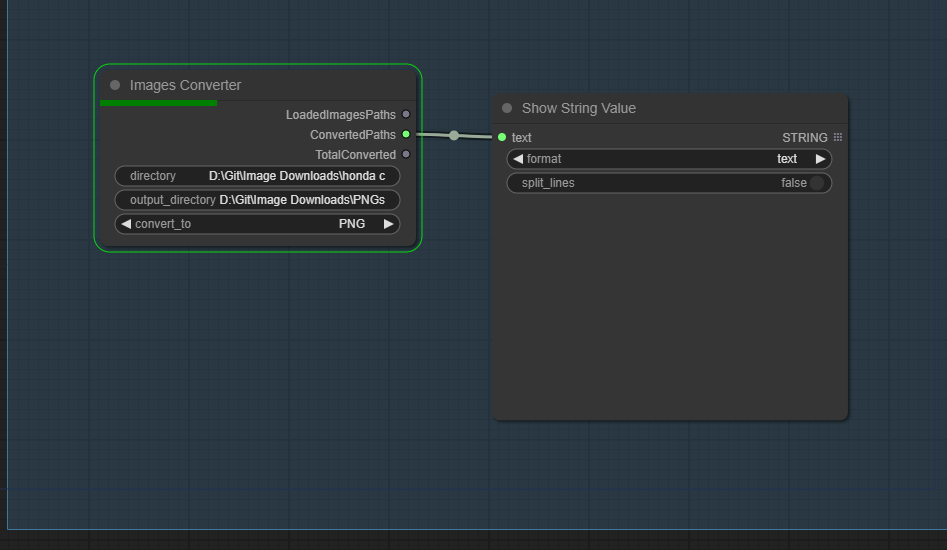
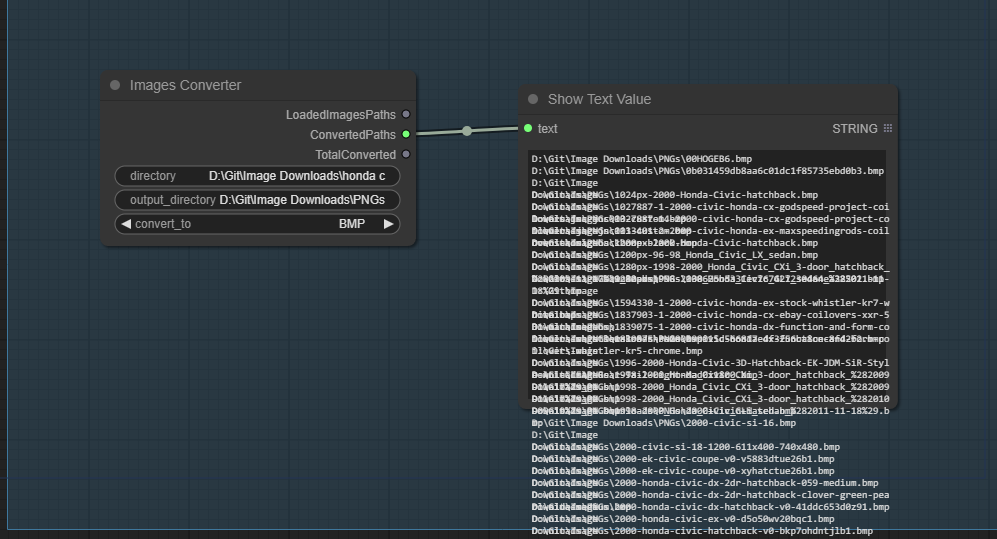
Working Show Text node

Changed region(s): [[0.0, 0.1781, 1.0, 1.0], [0.1225, 0.0891, 0.4287, 0.1187], [0.0919, 0.1484, 0.245, 0.2078]]

diff --git a/web/js/showText.js b/web/js/showText.js
@@ -1,0 +1,58 @@
+import { app } from "../../../scripts/app.js";
+import { ComfyWidgets } from "../../../scripts/widgets.js";
+
+// Displays input text on a node
+app.registerExtension({
+	name: "D00MYs.Show_Text",
+	async beforeRegisterNodeDef(nodeType, nodeData, app) {
+		if (nodeData.name === "Show_Text|D00MYs") {
+			// Taken from : https://github.com/pythongosssss/ComfyUI-Custom-Scripts/blob/main/web/js/showText.js
+			function populate(text) {
+				if (this.widgets) {
+					for (let i = 2; i < this.widgets.length; i++) {
+						this.widgets[i].onRemove?.();
+					}
+					this.widgets.length = 2;
+				}
+
+				const v = [...text];
+				if (!v[0]) {
+					v.shift();
+				}
+				for (const list of v) {
+					const w = ComfyWidgets["STRING"](this, "text2", ["STRING", { multiline: true }], app).widget;
+					w.inputEl.readOnly = true;
+					w.inputEl.style.opacity = 0.6;
+					w.value = list;
+				}
+
+				requestAnimationFrame(() => {
+					const sz = this.computeSize();
+					if (sz[0] < this.size[0]) {
+						sz[0] = this.size[0];
+					}
+					if (sz[1] < this.size[1]) {
+						sz[1] = this.size[1];
+					}
+					this.onResize?.(sz);
+					app.graph.setDirtyCanvas(true, false);
+				});
+			}
+
+			// When the node is executed we will be sent the input text, display this in the widget
+			const onExecuted = nodeType.prototype.onExecuted;
+			nodeType.prototype.onExecuted = function (message) {
+				onExecuted?.apply(this, arguments);
+				populate.call(this, message.text);
+			};
+
+			const onConfigure = nodeType.prototype.onConfigure;
+			nodeType.prototype.onConfigure = function () {
+				onConfigure?.apply(this, arguments);
+				if (this.widgets_values?.length) {
+					populate.call(this, this.widgets_values.slice(+this.widgets_values.length > 2));
+				}
+			};
+		}
+	},
+});

diff --git a/__init__.py b/__init__.py
@@ -1,6 +1,55 @@
+import os
+import shutil
+import inspect
+from server import PromptServer
+
 from .nodes import NODE_CLASS_MAPPINGS, NODE_DISPLAY_NAME_MAPPINGS
 from .logger import logger
 
 logger.info(f"Loading D00MYs nodes: {NODE_CLASS_MAPPINGS}")
 
-__all__ = ["NODE_CLASS_MAPPINGS", "NODE_DISPLAY_NAME_MAPPINGS"]
+#################################################################### Installing JS
+# https://github.com/pythongosssss/ComfyUI-Custom-Scripts/blob/main/pysssss.py
+
+def get_ext_dir(subpath=None, mkdir=False):
+    dir = os.path.dirname(__file__)
+    if subpath is not None:
+        dir = os.path.join(dir, subpath)
+
+    dir = os.path.abspath(dir)
+
+    if mkdir and not os.path.exists(dir):
+        os.makedirs(dir)
+    return dir
+
+def get_comfy_dir(subpath=None, mkdir=False):
+    dir = os.path.dirname(inspect.getfile(PromptServer))
+    if subpath is not None:
+        dir = os.path.join(dir, subpath)
+
+    dir = os.path.abspath(dir)
+
+    if mkdir and not os.path.exists(dir):
+        os.makedirs(dir)
+    return dir
+
+def get_web_ext_dir():
+    dir = get_comfy_dir("web/extensions/D00MYs")
+    if not os.path.exists(dir):
+        os.makedirs(dir)
+    return dir
+
+def install_js():
+    src_dir = get_ext_dir("web/js")
+    if not os.path.exists(src_dir):
+        logger.error("NO JS!")
+        return
+    dst_dir = get_web_ext_dir()
+    shutil.copytree(src_dir, dst_dir, dirs_exist_ok=True)
+
+install_js()
+
+################################################################################
+
+WEB_DIRECTORY = "./web"
+__all__ = ["NODE_CLASS_MAPPINGS", "NODE_DISPLAY_NAME_MAPPINGS", "WEB_DIRECTORY"]

diff --git a/nodes.py b/nodes.py
@@ -104,10 +104,10 @@ class D00MYsImagesConverter:
 
 ################################ Text Nodes
 
-class D00MYsShowString:
+class D00MYsShowText:
     def __init__(self):
         self.type = "output"
-        logger.debug("Init of D00MYsShowString")
+        logger.debug("Init of D00MYsShowText")
 
     @classmethod
     def INPUT_TYPES(s):
@@ -140,16 +140,16 @@ class D00MYsShowString:
             else:
                 result += t if isinstance(t, list) else [t]
         logger.debug(f"result = {result}")
-        return {"ui": {"text": tuple(result)}, "result": (result,)}
+        return {"ui": {"text": result}, "result": (result,)}
 
 #####################################################################
 
 NODE_CLASS_MAPPINGS = {
     "Images_Converter|D00MYs": D00MYsImagesConverter,
-    "Show_String|D00MYs": D00MYsShowString,
+    "Show_Text|D00MYs": D00MYsShowText,
 }
 
 NODE_DISPLAY_NAME_MAPPINGS = {
     "Images_Converter|D00MYs": "Images Converter",
-    "Show_String|D00MYs": "Show String Value",
+    "Show_Text|D00MYs": "Show Text Value",
 }

diff --git a/README.md b/README.md
@@ -1,6 +1,6 @@
 # ComfyUI-D00MYsNodes
 A set of custom nodes for ComfyUI I needed for myself but I'm sharing with the public. 
 - **Images_Converter** : Images conversions to any PNG, JPEG, or others.
-- **Show_String** : Show a string or list of string value.
+- **Show_Text** : Show a text or list of text values.
 
 ![Nodes examples](workflow.png "Nodes examples")
